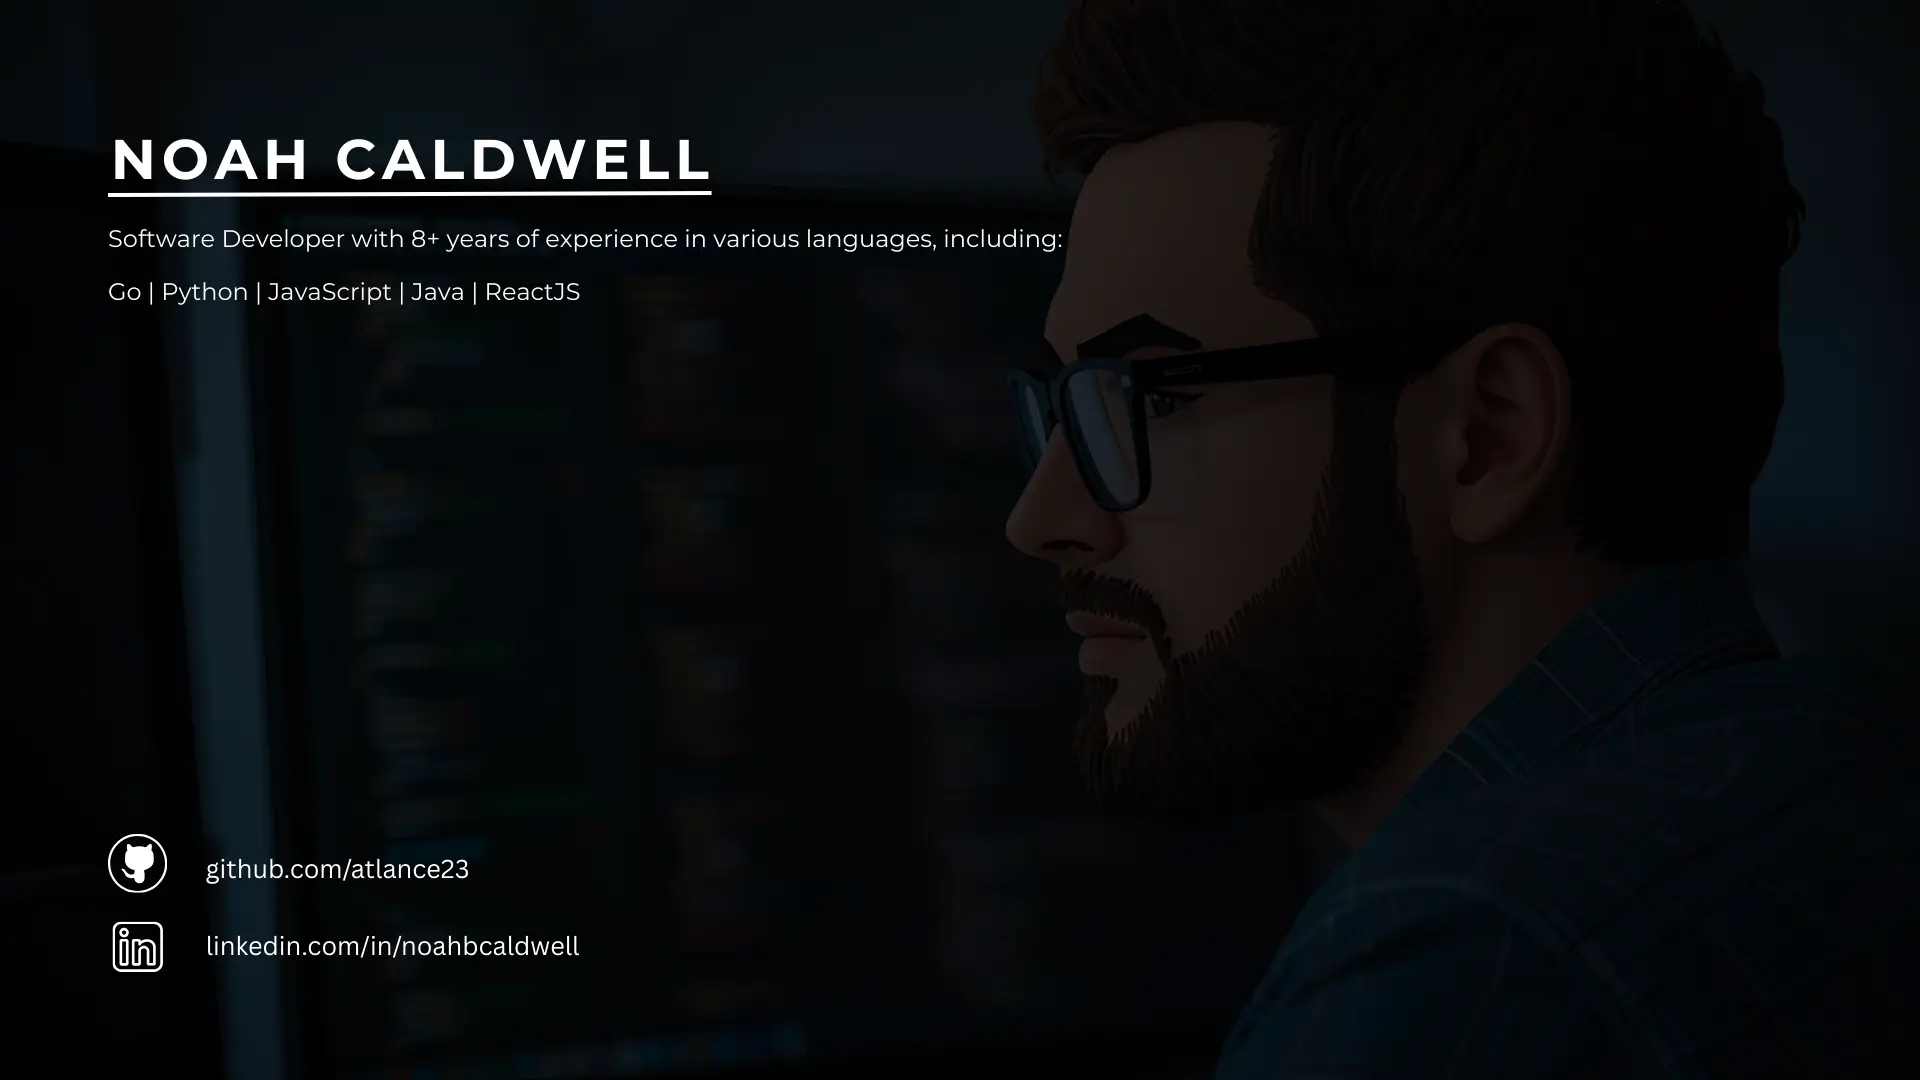
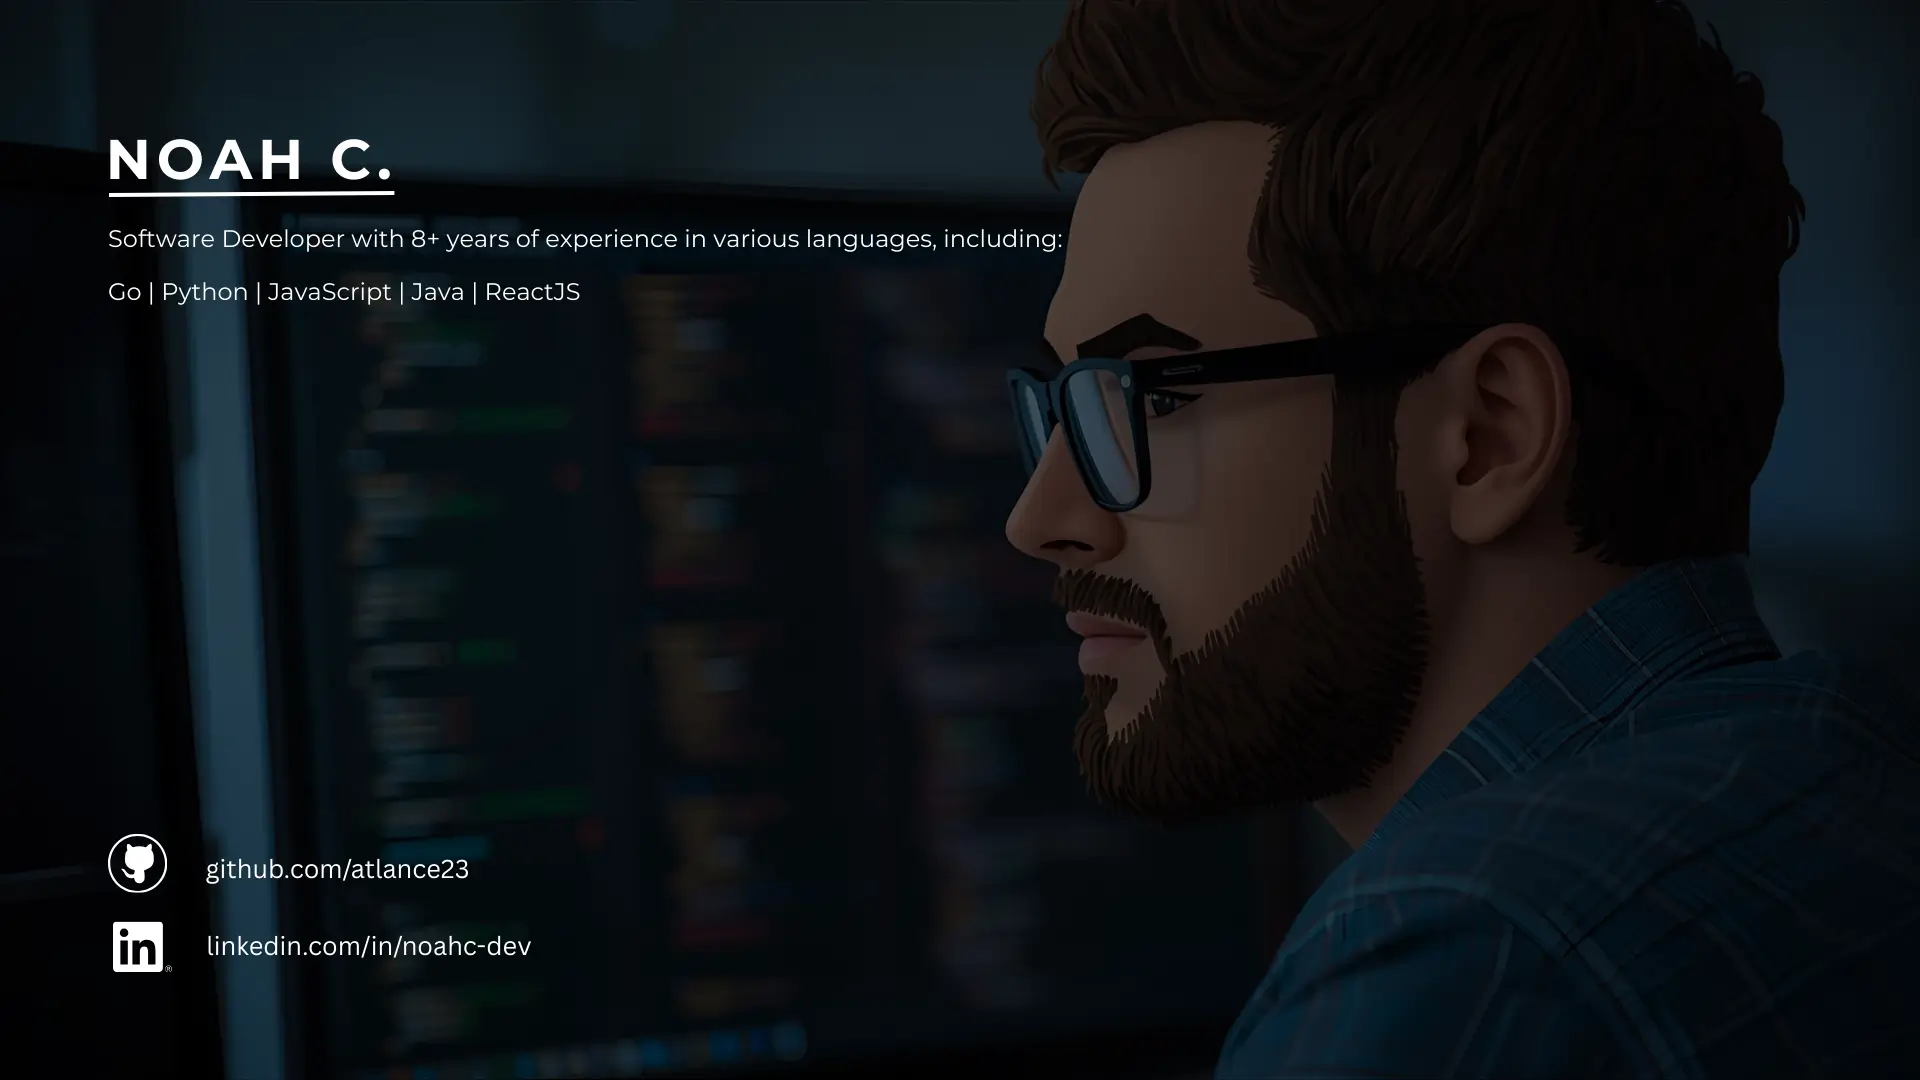
Update header image and github links

diff --git a/README.md b/README.md
@@ -4,7 +4,7 @@
     <img style="width: 100%;" alt="Software Dev in front of computer" src="./assets/github.comatlance23.webp">
 </div>
 
-## Hello! 👋 My name is Noah Caldwell
+## Hello! 👋 My name is Noah!
 I am a software developer with 8+ years of experience in various programming languages and frameworks including, but not limited to:
 - Go
 - JavaScript
@@ -17,7 +17,7 @@ I am a software developer with 8+ years of experience in various programming lan
 <a href="https://github.com/atlance23">
     <p>GitHub.com</p>
 </a>
-<a href="https://linkedin.com/in/noahbcaldwell">
+<a href="https://linkedin.com/in/noahc-dev">
     <p>LinkedIn Profile</p>
 </a>
 
